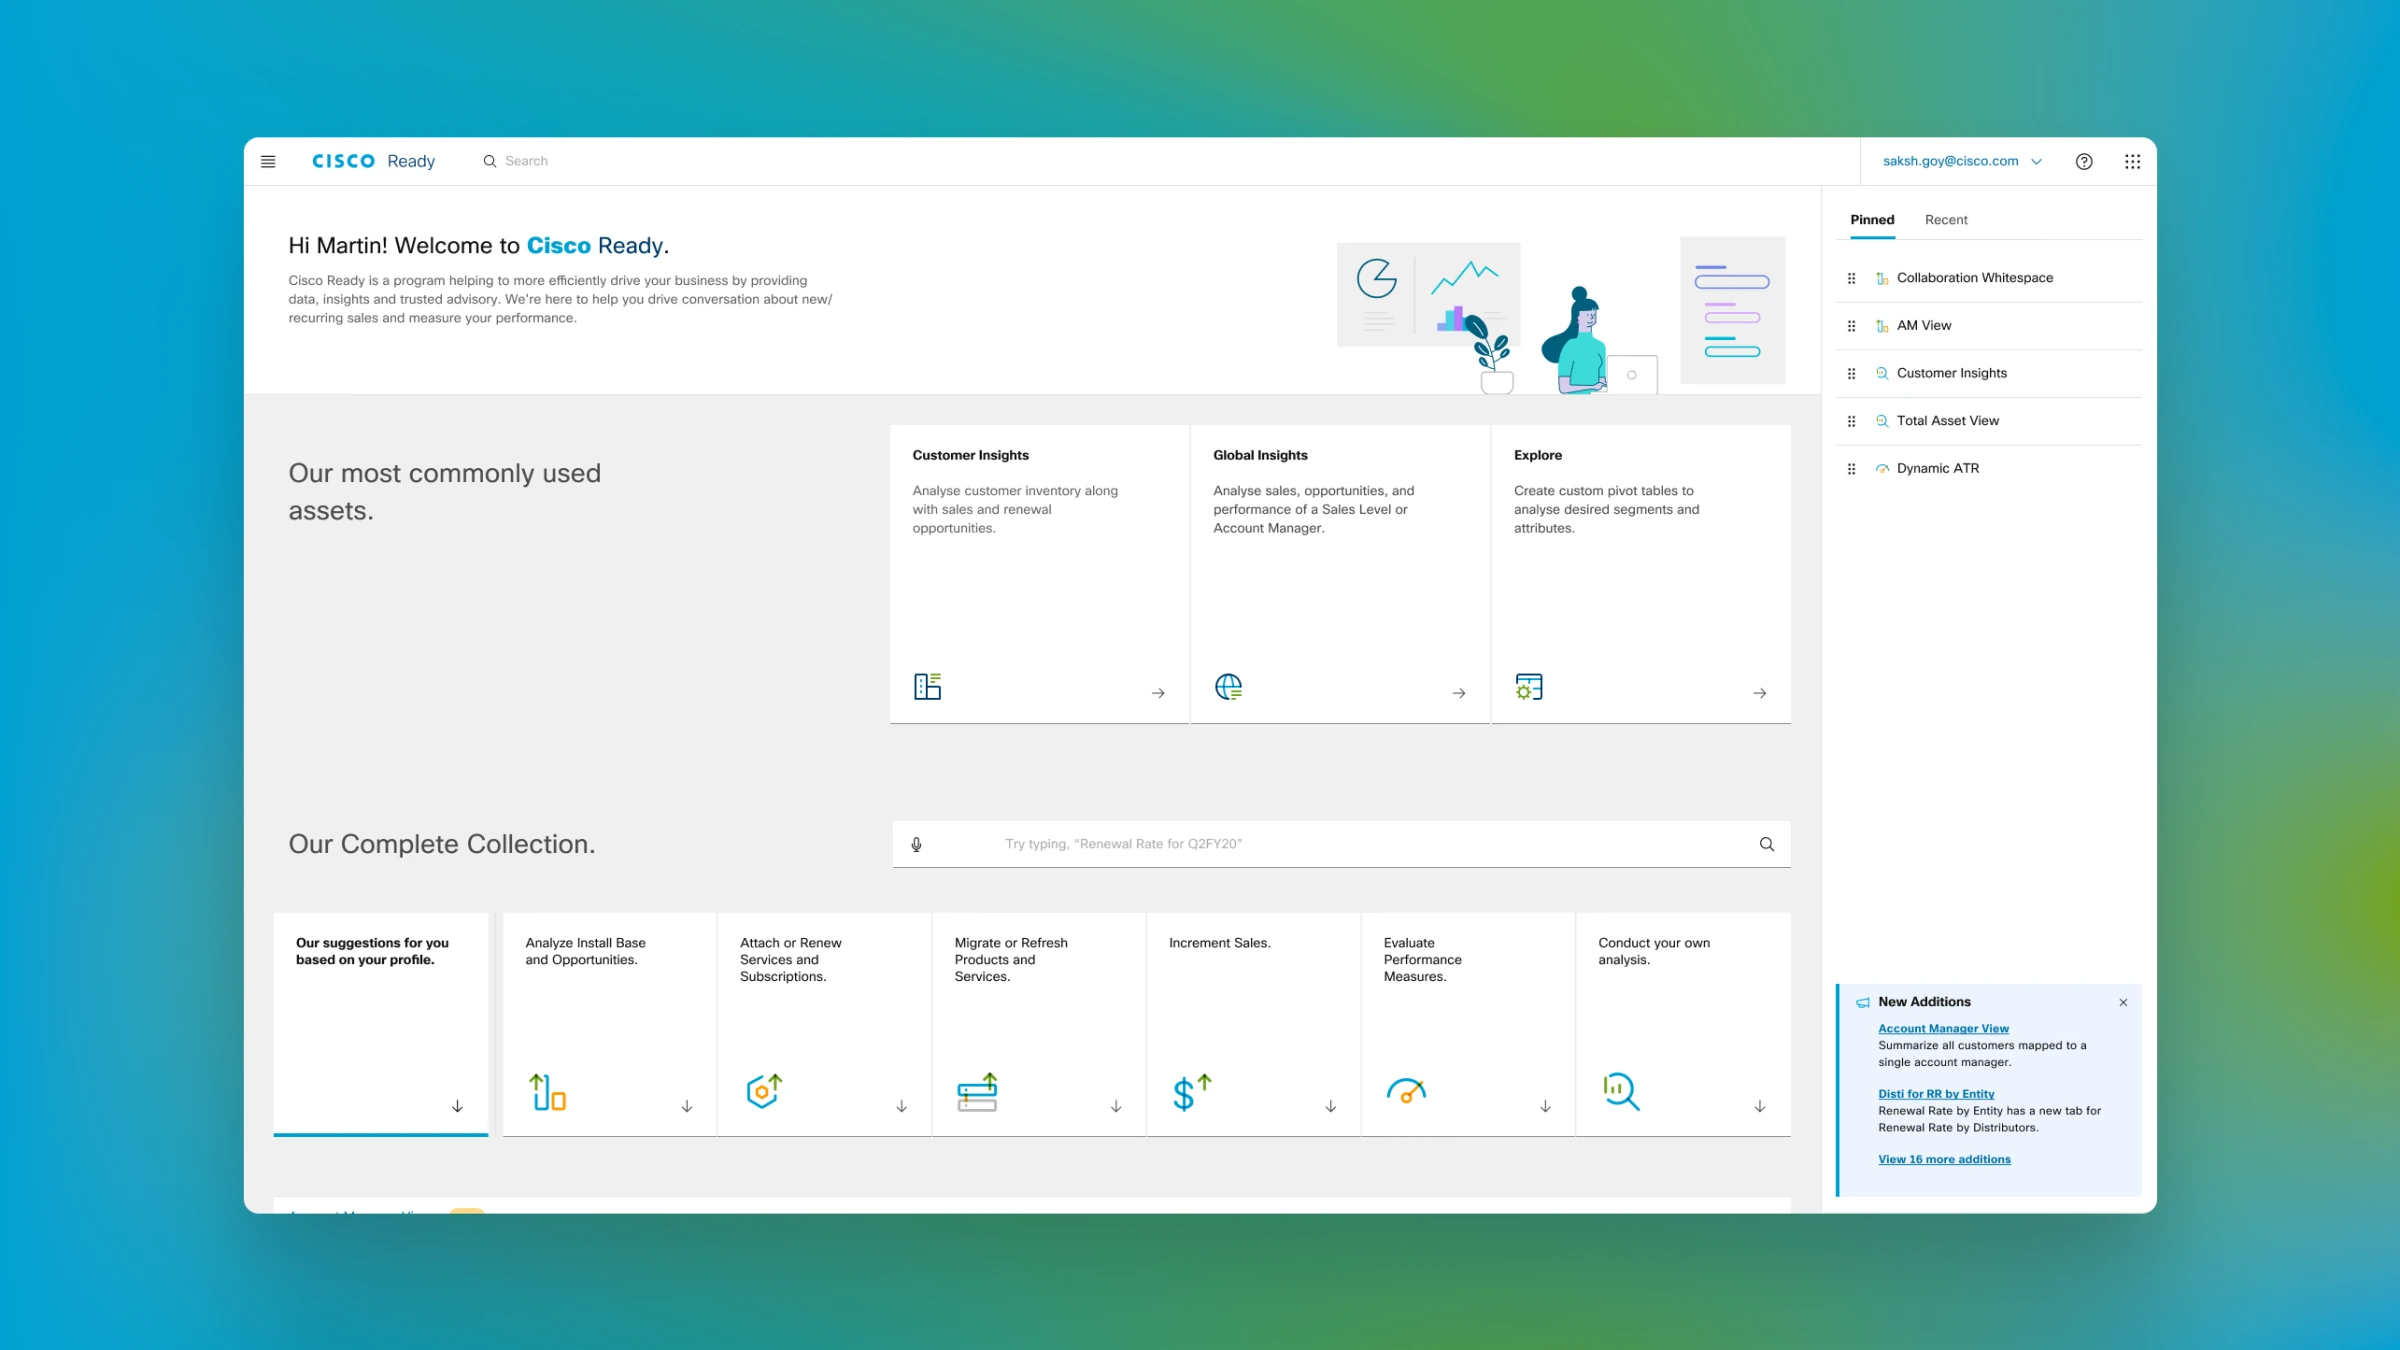
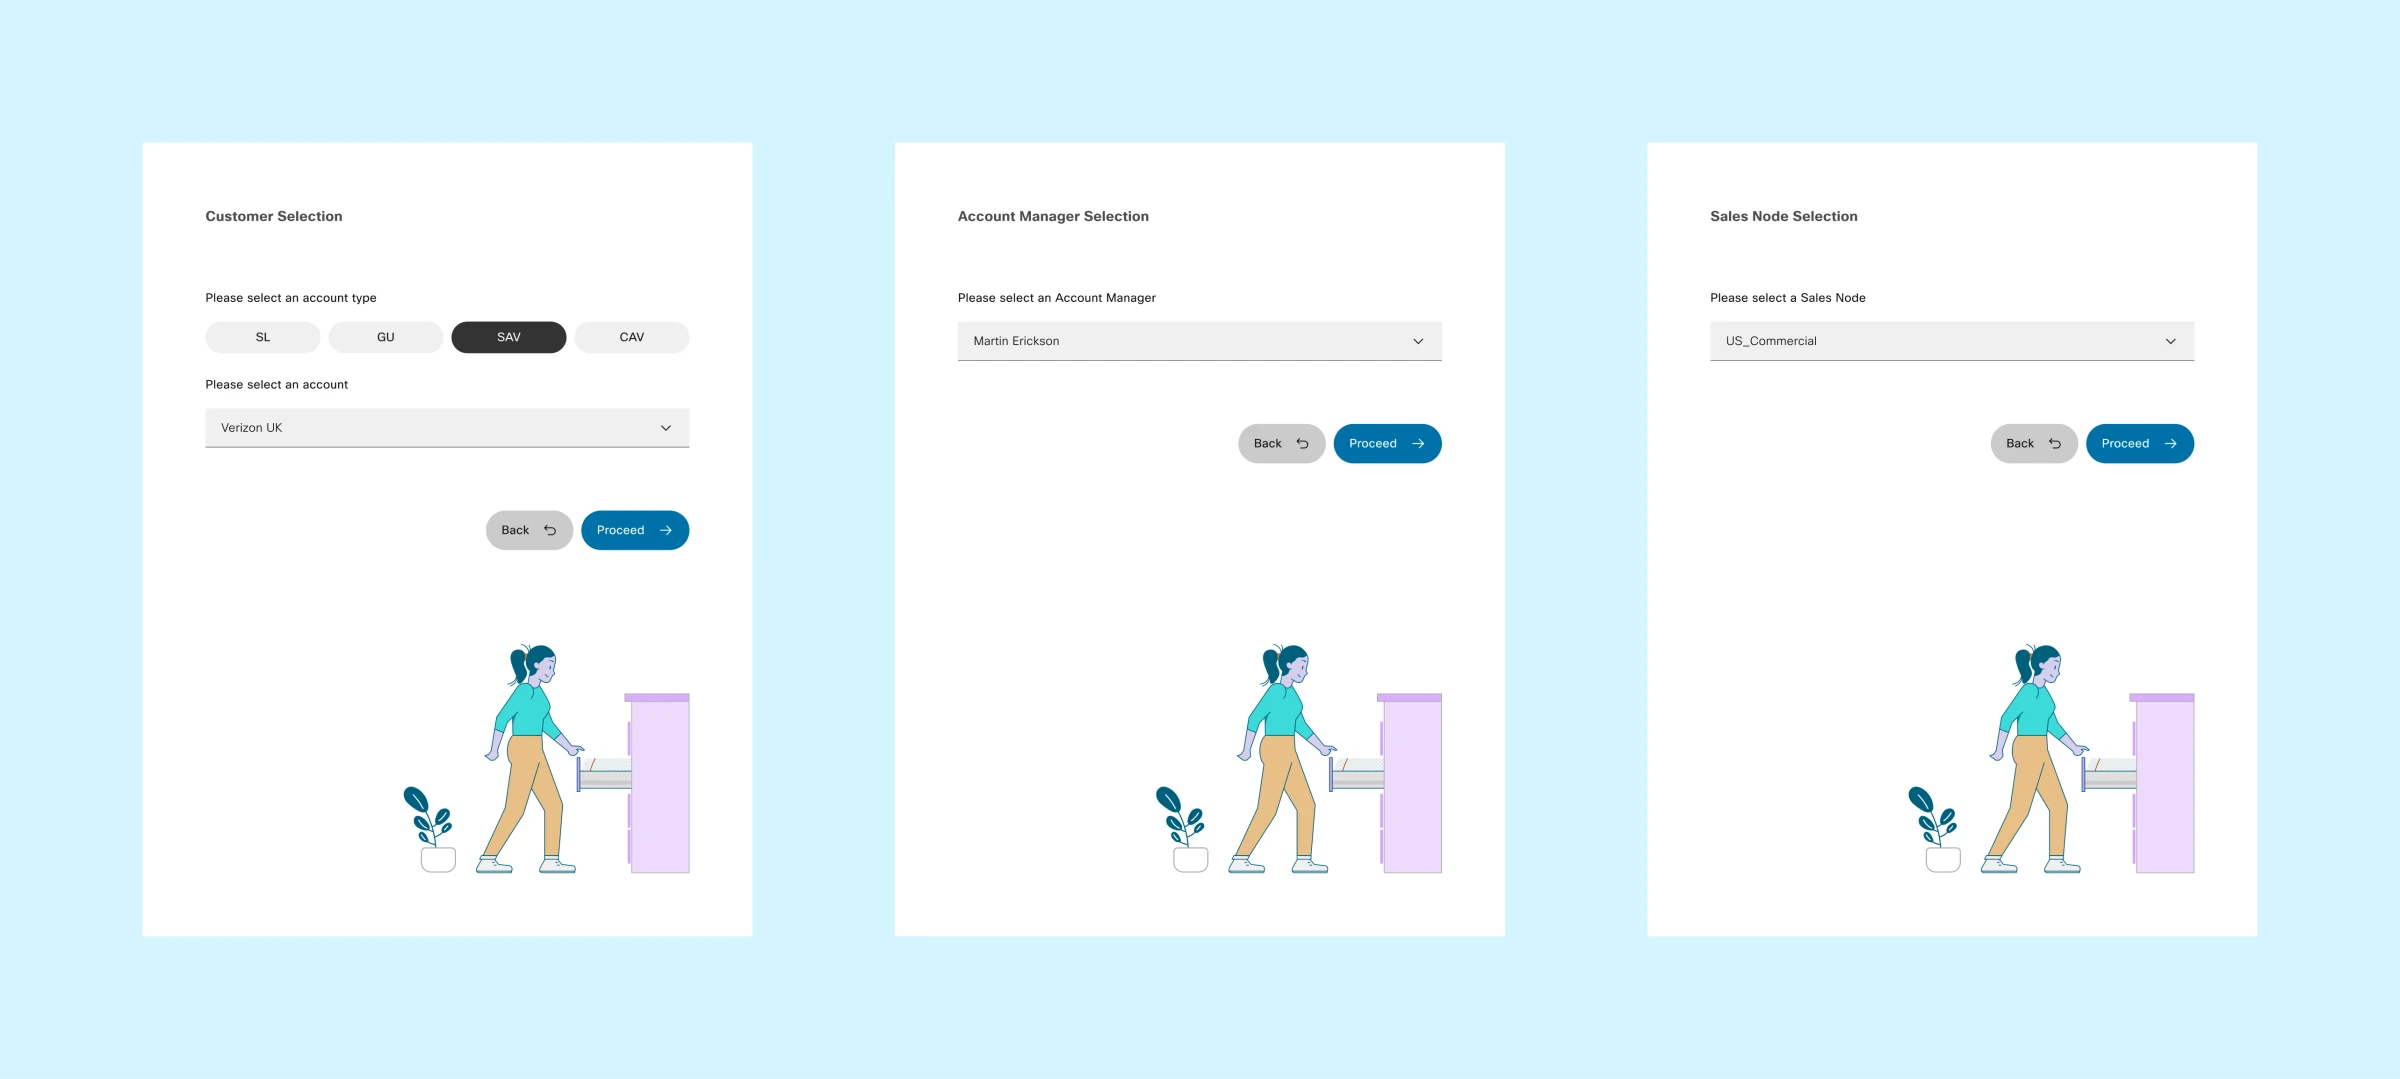
Refine homepage and gallery presentation

diff --git a/src/styles/global.css b/src/styles/global.css
@@ -168,7 +168,8 @@ body {
 }
 
 img { display: block; max-width: 100%; }
-[data-behance-image] { cursor: zoom-in; }
+[data-behance-image],
+[data-behance-video] { cursor: zoom-in; }
 a { color: inherit; }
 p, h1, h2, h3, figure, dl, dd { margin: 0; }
 
@@ -522,23 +523,36 @@ p, h1, h2, h3, figure, dl, dd { margin: 0; }
 
 .home-project-copy h3 {
   overflow-wrap: break-word;
-  font: 400 24px/normal 'Cabinet Grotesk', Arial, sans-serif;
+  font: 600 24px/normal 'Cabinet Grotesk', Arial, sans-serif;
   letter-spacing: .24px;
+}
+
+.home-section-heading {
+  display: flex;
+  align-items: center;
+  width: 100%;
+  height: 100px;
+  padding-inline: var(--home-pad);
+}
+.home-section-heading h2 {
+  color: var(--home-ink);
+  font: 700 28px/1.35 'Cabinet Grotesk', Arial, sans-serif;
+  letter-spacing: 0;
 }
 
 .home-gallery {
   position: relative;
-  display: grid;
-  gap: 48px;
-  padding-block: 48px;
+  display: block;
+  padding-block: 0 48px;
   background: #fff;
 }
+.gallery-project-list { display: grid; gap: 100px; }
 
 .gallery-project {
   position: relative;
   display: grid;
   grid-template-columns: minmax(0, 1fr);
-  gap: 24px;
+  gap: 48px;
   min-width: 0;
   padding-inline: var(--home-pad);
   background: #fff;
@@ -546,6 +560,7 @@ p, h1, h2, h3, figure, dl, dd { margin: 0; }
 
 .gallery-project-info {
   min-width: 0;
+  padding-bottom: 64px;
   color: var(--home-ink);
   font: 400 16px/var(--body-leading) 'Manrope', Arial, sans-serif;
 }
@@ -561,6 +576,10 @@ p, h1, h2, h3, figure, dl, dd { margin: 0; }
 .gallery-project-heading time {
   color: var(--home-secondary);
   font: 400 14px/1.35 'Public Sans', 'Inter', Arial, sans-serif;
+}
+.gallery-project-info p {
+  font-weight: 500;
+  opacity: .6;
 }
 .gallery-project-info p + p { margin-top: 20px; }
 
@@ -655,7 +674,12 @@ p, h1, h2, h3, figure, dl, dd { margin: 0; }
 .behance-viewer__close:hover { background: #4a4a4a; }
 .behance-viewer__close svg, .behance-viewer__previous svg, .behance-viewer__next svg { width: 100%; height: 100%; fill: none; stroke: currentColor; stroke-width: 1.25; }
 .behance-viewer__stage { grid-column: 1 / -1; grid-row: 1 / -1; display: grid; width: 100%; height: 100%; overflow: auto; place-items: center; overscroll-behavior: contain; scrollbar-color: rgb(255 255 255 / .35) transparent; }
-.behance-viewer__stage img { display: block; width: auto; max-width: calc(100vw - 200px); max-height: 100vh; margin: auto; object-fit: contain; cursor: zoom-in; }
+.behance-viewer__stage img,
+.behance-viewer__stage video { display: block; width: auto; max-width: calc(100vw - 200px); max-height: 100vh; margin: auto; object-fit: contain; }
+.behance-viewer__stage img { cursor: zoom-in; }
+.behance-viewer__stage video { background: #000; }
+.behance-viewer__stage img[hidden],
+.behance-viewer__stage video[hidden] { display: none; }
 .behance-viewer.is-expanded .behance-viewer__stage { display: block; }
 .behance-viewer.is-expanded .behance-viewer__stage img { max-width: none; max-height: none; cursor: zoom-out; }
 .behance-viewer__previous, .behance-viewer__next { z-index: 2; grid-row: 2; display: grid; width: 45px; height: 45px; padding: 15px 17px; place-self: center; place-items: center; border: 0; border-radius: 50%; background: #343434; color: #fff; cursor: pointer; }
@@ -978,7 +1002,8 @@ html[data-media-motion-ready='true'] [data-media-reveal][data-media-reveal-ready
   .behance-viewer { grid-template-columns: 52px minmax(0, 1fr) 52px; grid-template-rows: 56px minmax(0, 1fr); }
   .behance-viewer__topbar h2 { max-width: calc(100vw - 76px); padding: 16px; font-size: 14px; }
   .behance-viewer__close { width: 36px; height: 36px; margin: 10px; padding: 12px; }
-  .behance-viewer__stage img { max-width: 100vw; max-height: 100vh; }
+  .behance-viewer__stage img,
+  .behance-viewer__stage video { max-width: 100vw; max-height: 100vh; }
   .behance-viewer__previous, .behance-viewer__next { width: 36px; height: 36px; padding: 12px 14px; }
 }
 
@@ -1667,7 +1692,7 @@ html:not(.js) [data-case-system='true'] [data-media-caption]::before {
   .gallery-project {
     grid-template-columns: repeat(20, minmax(0, 1fr));
     column-gap: 0;
-    row-gap: 24px;
+    row-gap: 48px;
     align-items: start;
   }
   .gallery-project-info,

diff --git a/src/data/gallery.js b/src/data/gallery.js
@@ -46,7 +46,7 @@ export const galleryMedia = Object.freeze({
   ],
   'CISCO READY': [
     image('cready-redesign-00', 2400, 1350),
-    image('cready-redesign-01', 2400, 1350),
+    image('cready-redesign-01', 2400, 1079),
     image('cready-redesign-02', 2400, 1350),
   ],
   'HBS-FACULTY-PLATFORM': [
@@ -98,8 +98,8 @@ export const galleryLayouts = Object.freeze({
     },
   },
   'CISCO READY AI': {
-    info: place(16, 5, 1),
-    artifacts: { 'cisco-ready-ai-00': place(1, 15, 1) },
+    info: place(11, 10, 1),
+    artifacts: { 'cisco-ready-ai-00': place(1, 10, 1) },
   },
   'TREBUCHET TRIALS': {
     info: place(9, 12, 1),

diff --git a/src/scripts/motion-system.js b/src/scripts/motion-system.js
@@ -157,6 +157,7 @@ const initBodyReveals = (reduceMotion) => {
 
   document.querySelectorAll([
     '.home-bio',
+    '.home-section-heading h2',
     '.home-project-copy',
     '.home-project-meta',
     '.gallery-project-info',

diff --git a/src/content/gallery-notes.md b/src/content/gallery-notes.md
@@ -2,7 +2,7 @@
 
 PANOPTICA - 2024
 
-I redesigned Panoptica's onboarding experience and helped reduce new-user drop-off by 50%. I evolved the experience from guiding users toward the next action to teaching them, through visuals, animations, concrete examples, and walkthroughs, what Panoptica could do and what they would gain from completing setup.
+I redesigned Panoptica’s onboarding experience, contributing to a 50% reduction in onboarding abandonment and helping more new users complete the full setup flow. I evolved the experience from guiding users toward the next action to teaching them, through visuals, animations, concrete examples, and walkthroughs, what Panoptica could do and what they would gain from completing setup.
 
 As a non-engineer designing for DevOps, SecOps, and technical managers, I had to understand unfamiliar technical concepts well enough to explain them clearly without diluting their meaning. I defined the principles for an outcome-driven educational onboarding model that introduced Panoptica’s different capabilities as users moved through setup. I also used AI as a learning and translation aid to test analogies, build empathy for technical users, and refine copy that could work for engineers and non-engineers alike.
 
